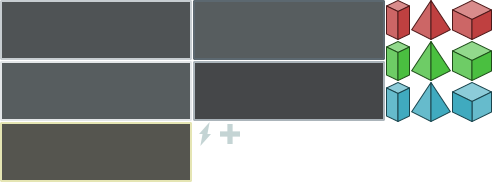
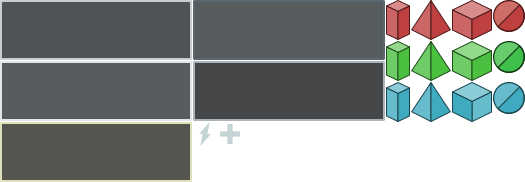
Add new unit: scout

Changed region(s): [[0.7317, 0.0, 1.0, 0.6868], [0.3354, 0.0, 0.4878, 1.0]]

diff --git a/src/Screens/ScreenInit.cpp b/src/Screens/ScreenInit.cpp
@@ -384,25 +384,32 @@ ScreenInit::ScreenInit(Game * game)
         {
             // unit 1
             { 0, 0, 96, 58 },
-            { 96, 0, 96, 58 },
-            { 192, 0, 96, 58 },
-            { 288, 0, 96, 58 },
-            { 384, 0, 96, 58 },
-            { 480, 0, 96, 58 },
+            { 97, 0, 96, 58 },
+            { 194, 0, 96, 58 },
+            { 291, 0, 96, 58 },
+            { 388, 0, 96, 58 },
+            { 485, 0, 96, 58 },
             // unit 2
             { 0, 58, 96, 54 },
             { 96, 58, 96, 54 },
-            { 192, 58, 96, 54 },
-            { 288, 58, 96, 54 },
-            { 384, 58, 96, 54 },
-            { 480, 58, 96, 54 },
+            { 194, 58, 96, 54 },
+            { 291, 58, 96, 54 },
+            { 388, 58, 96, 54 },
+            { 485, 58, 96, 54 },
             // unit 3
             { 0, 112, 96, 54 },
             { 96, 112, 96, 54 },
-            { 192, 112, 96, 54 },
-            { 288, 112, 96, 54 },
-            { 384, 112, 96, 54 },
-            { 480, 112, 96, 54 }
+            { 194, 112, 96, 54 },
+            { 291, 112, 96, 54 },
+            { 388, 112, 96, 54 },
+            { 485, 112, 96, 54 },
+            // unit 4
+            { 0, 169, 96, 56 },
+            { 96, 169, 96, 56 },
+            { 194, 169, 96, 56 },
+            { 291, 169, 96, 56 },
+            { 388, 169, 96, 56 },
+            { 485, 169, 96, 56 }
         };
 
         tm->RegisterSprite(SpriteFileUnits, rects);
@@ -581,12 +588,15 @@ ScreenInit::ScreenInit(Game * game)
             { 386, 0, 24, 40 },
             { 411, 0, 40, 40 },
             { 452, 0, 40, 40 },
+            { 493, 0, 32, 32 },
             { 386, 41, 24, 40 },
             { 411, 41, 40, 40 },
             { 452, 41, 40, 40 },
+            { 493, 41, 32, 32 },
             { 386, 82, 24, 40 },
             { 411, 82, 40, 40 },
-            { 452, 82, 40, 40 }
+            { 452, 82, 40, 40 },
+            { 493, 82, 32, 32 }
         };
 
         tm->RegisterSprite(SpriteFileUnitQuickSel, rects);

diff --git a/src/GameObjects/ObjectsDataRegistry.cpp b/src/GameObjects/ObjectsDataRegistry.cpp
@@ -375,6 +375,19 @@ void ObjectsDataRegistry::InitUnits()
 
     );
 
+    // unit 4
+    data1.emplace
+    (
+        UNIT_4,
+        ObjectData(std::vector<int>{ 6, 6, 3, 2, 3, 3, 4, 4, 4, 6, 1, 2 },
+                   std::vector<int>{ 30, 30, 0, 0 },
+                   SpriteFileUnits, SPR_UNIT_04_F1,
+                   OCU_SCOUT, UNIT_4, 1, 1,
+                   Unit::TITLES[UNIT_4],
+                   Unit::DESCRIPTIONS[UNIT_4])
+
+    );
+
     // -- FACTION 2 --
     std::unordered_map<UnitType, ObjectData> & data2 = mUnits[FACTION_2];
 
@@ -414,6 +427,19 @@ void ObjectsDataRegistry::InitUnits()
                    Unit::DESCRIPTIONS[UNIT_3])
     );
 
+    // unit 4
+    data2.emplace
+    (
+        UNIT_4,
+        ObjectData(std::vector<int>{ 6, 6, 3, 2, 3, 3, 4, 4, 4, 6, 1, 2 },
+                   std::vector<int>{ 30, 30, 0, 0 },
+                   SpriteFileUnits, SPR_UNIT_04_F2,
+                   OCU_SCOUT, UNIT_4, 1, 1,
+                   Unit::TITLES[UNIT_4],
+                   Unit::DESCRIPTIONS[UNIT_4])
+
+    );
+
     // -- FACTION 3 --
     std::unordered_map<UnitType, ObjectData> & data3 = mUnits[FACTION_3];
 
@@ -451,6 +477,19 @@ void ObjectsDataRegistry::InitUnits()
                    OCU_GENERIC, UNIT_3, 1, 1,
                    Unit::TITLES[UNIT_3],
                    Unit::DESCRIPTIONS[UNIT_3])
+    );
+
+    // unit 4
+    data3.emplace
+    (
+        UNIT_4,
+        ObjectData(std::vector<int>{ 6, 6, 3, 2, 3, 3, 4, 4, 4, 6, 1, 2 },
+                   std::vector<int>{ 30, 30, 0, 0 },
+                   SpriteFileUnits, SPR_UNIT_04_F3,
+                   OCU_SCOUT, UNIT_4, 1, 1,
+                   Unit::TITLES[UNIT_4],
+                   Unit::DESCRIPTIONS[UNIT_4])
+
     );
 }
 

diff --git a/src/Screens/ScreenNewGame.cpp b/src/Screens/ScreenNewGame.cpp
@@ -205,6 +205,7 @@ ScreenNewGame::ScreenNewGame(Game * game)
         p->AddAvailableUnit(dataReg->GetUnit(pf, UNIT_2));
         // TODO temporary for testing. In the future start only with 2 types
         p->AddAvailableUnit(dataReg->GetUnit(pf, UNIT_3));
+        p->AddAvailableUnit(dataReg->GetUnit(pf, UNIT_4));
 
         // create AI players
         const char * strPlayers[] =
@@ -248,6 +249,7 @@ ScreenNewGame::ScreenNewGame(Game * game)
             p->AddAvailableUnit(dataReg->GetUnit(facAI, UNIT_2));
             // TODO temporary for testing. In the future start only with 2 types
             p->AddAvailableUnit(dataReg->GetUnit(facAI, UNIT_3));
+            p->AddAvailableUnit(dataReg->GetUnit(facAI, UNIT_4));
 
             ++indFaction;
 

diff --git a/src/GameObjects/GameObject.h b/src/GameObjects/GameObject.h
@@ -67,12 +67,15 @@ enum class MapObjectId : unsigned int
     UNIT_1_P1 = 5100,
     UNIT_2_P1,
     UNIT_3_P1,
+    UNIT_4_P1,
     UNIT_1_P2 = 5200,
     UNIT_2_P2,
     UNIT_3_P2,
+    UNIT_4_P2,
     UNIT_1_P3 = 5300,
     UNIT_2_P3,
     UNIT_3_P3,
+    UNIT_4_P3,
 
     // RANGE LIMITS
     MOUNTAIN_FIRST = MOUNTAIN_ROW_END_L_1,
@@ -80,7 +83,7 @@ enum class MapObjectId : unsigned int
     MOUNTAINS_FIRST = MOUNTAINS_L,
     MOUNTAINS_LAST = MOUNTAINS_8,
     UNIT_FIRST = UNIT_1_P1,
-    UNIT_LAST = UNIT_3_P3,
+    UNIT_LAST = UNIT_4_P3,
 
     // COUNTERS
     UNITS_PER_FACTION = UNIT_3_P1 - UNIT_1_P1 + 1,

diff --git a/src/GameObjects/Unit.cpp b/src/GameObjects/Unit.cpp
@@ -23,14 +23,16 @@ const char * Unit::TITLES[NUM_UNIT_TYPES] =
 {
     "WORKER",
     "SOLDIER",
-    "GENERIC"
+    "GENERIC",
+    "SCOUT"
 };
 
 const char * Unit::DESCRIPTIONS[NUM_UNIT_TYPES] =
 {
     "A basic worker unit.\nIt is specialized in construction and conquest.",
     "A basic soldier unit.\nUseful for defense and exploration.",
-    "A slow, but versatile unit."
+    "A slow, but versatile unit.",
+    "A light and fast unit ideal for exploring, but not for fighting."
 };
 
 Unit::Unit(const ObjectData & data, int rows, int cols)

diff --git a/src/Widgets/GameUIData.h b/src/Widgets/GameUIData.h
@@ -223,12 +223,15 @@ enum SpriteIdUnitQuickSel : unsigned int
     IND_UQS_UNIT1_F1,
     IND_UQS_UNIT2_F1,
     IND_UQS_UNIT3_F1,
+    IND_UQS_UNIT4_F1,
     IND_UQS_UNIT1_F2,
     IND_UQS_UNIT2_F2,
     IND_UQS_UNIT3_F2,
+    IND_UQS_UNIT4_F2,
     IND_UQS_UNIT1_F3,
     IND_UQS_UNIT2_F3,
     IND_UQS_UNIT3_F3,
+    IND_UQS_UNIT4_F3,
 
     NUM_UQS_UNIT_SPRITE_PER_FACTION = IND_UQS_UNIT1_F2 - IND_UQS_UNIT1_F1
 };

diff --git a/src/GameData.h b/src/GameData.h
@@ -288,6 +288,14 @@ enum SpriteIdUnits : unsigned int
     SPR_UNIT_03_F3,
     SPR_UNIT_03_F3_SEL,
 
+    // unit 4
+    SPR_UNIT_04_F1,
+    SPR_UNIT_04_F1_SEL,
+    SPR_UNIT_04_F2,
+    SPR_UNIT_04_F2_SEL,
+    SPR_UNIT_04_F3,
+    SPR_UNIT_04_F3_SEL,
+
     // 2 sprites per unit: unselected and selected
     NUM_UNIT_SPRITES_PER_FACTION = 2,
     // 6 sprites per type 2 * 3 factions

diff --git a/src/GameObjects/ObjectData.cpp b/src/GameObjects/ObjectData.cpp
@@ -13,6 +13,7 @@ const char * ObjectData::STR_CLASS[NUM_OBJ_CLASSES] =
     "TOWER",
 
     "GENERIC",
+    "SCOUT",
     "SOLDIER",
     "WORKER"
 };

diff --git a/src/GameObjects/ObjectData.h b/src/GameObjects/ObjectData.h
@@ -17,6 +17,7 @@ enum ObjClass : unsigned int
 
     // UNITS
     OCU_GENERIC,
+    OCU_SCOUT,
     OCU_SOLDIER,
     OCU_WORKER,
 

diff --git a/src/GameObjects/Unit.h b/src/GameObjects/Unit.h
@@ -16,6 +16,7 @@ enum UnitType : unsigned int
     UNIT_1,
     UNIT_2,
     UNIT_3,
+    UNIT_4,
 
     NUM_UNIT_TYPES,
 
